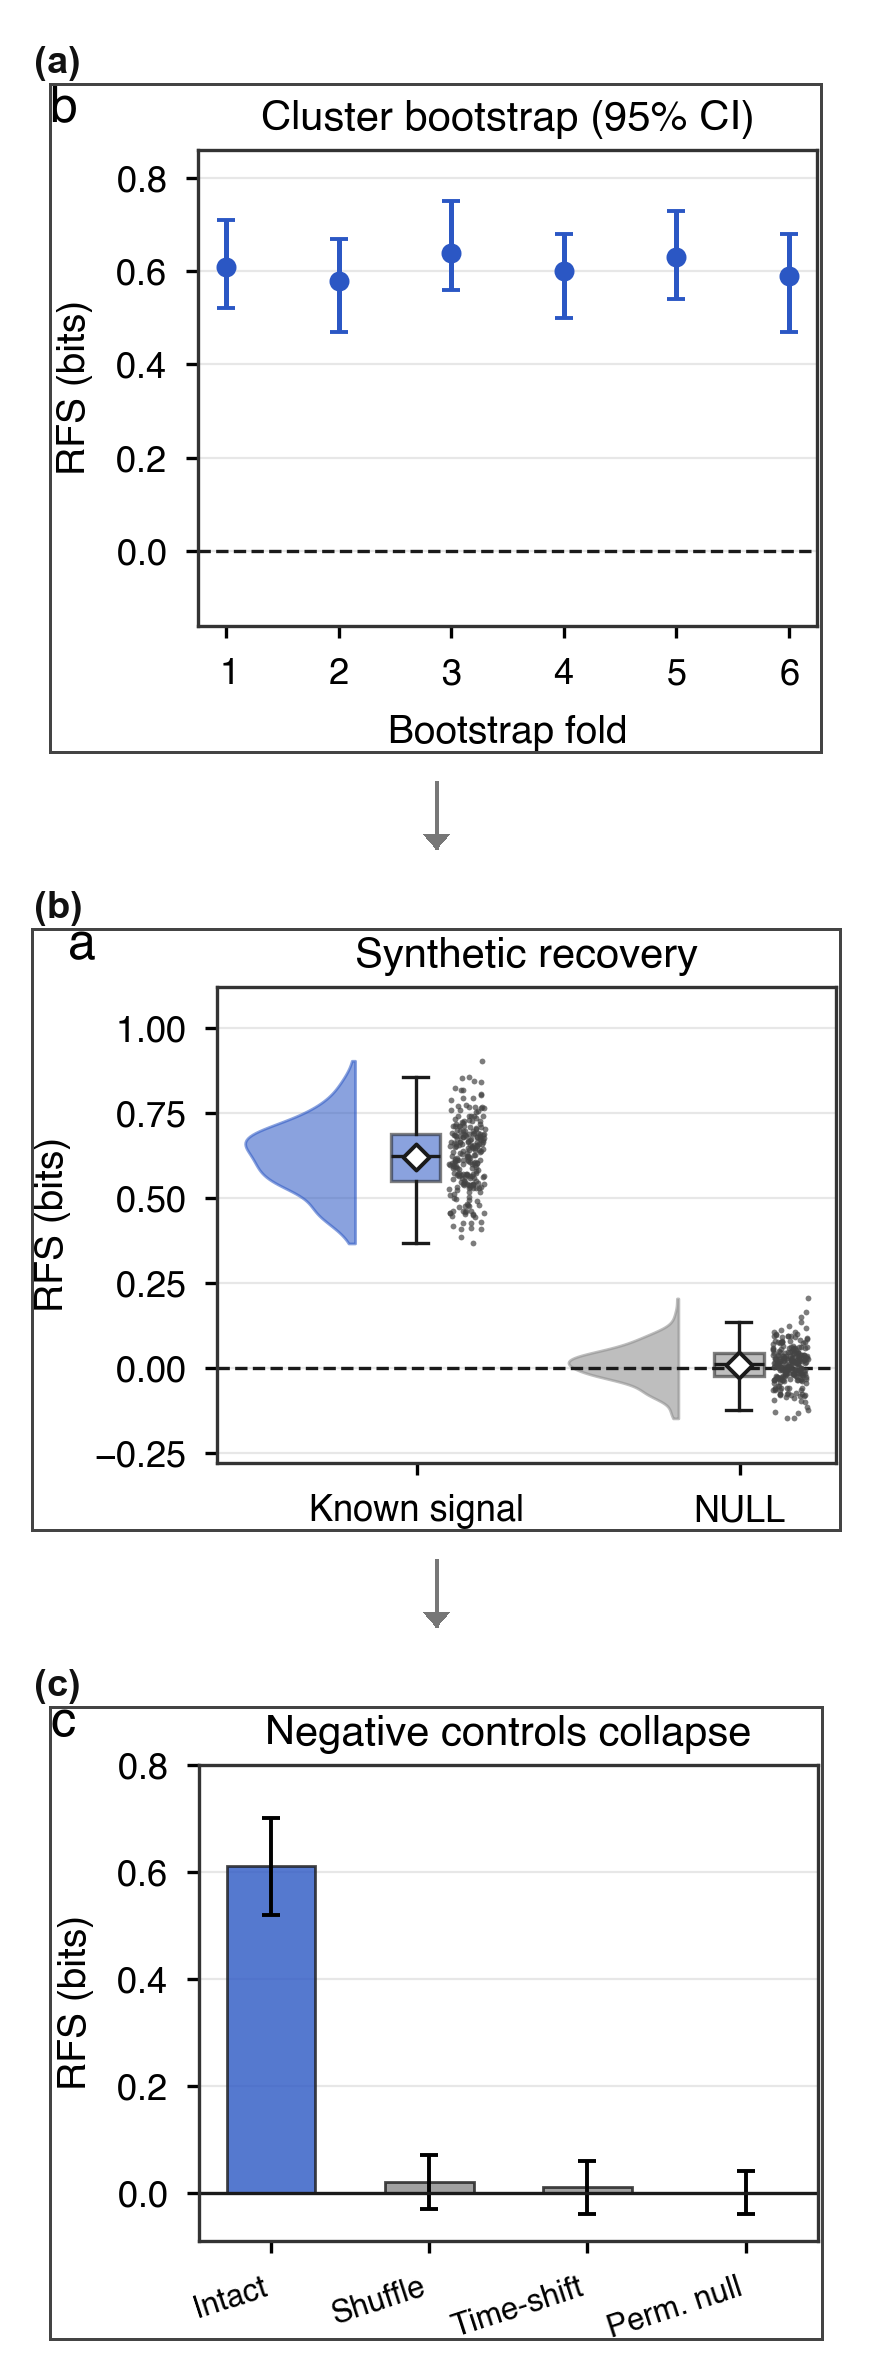
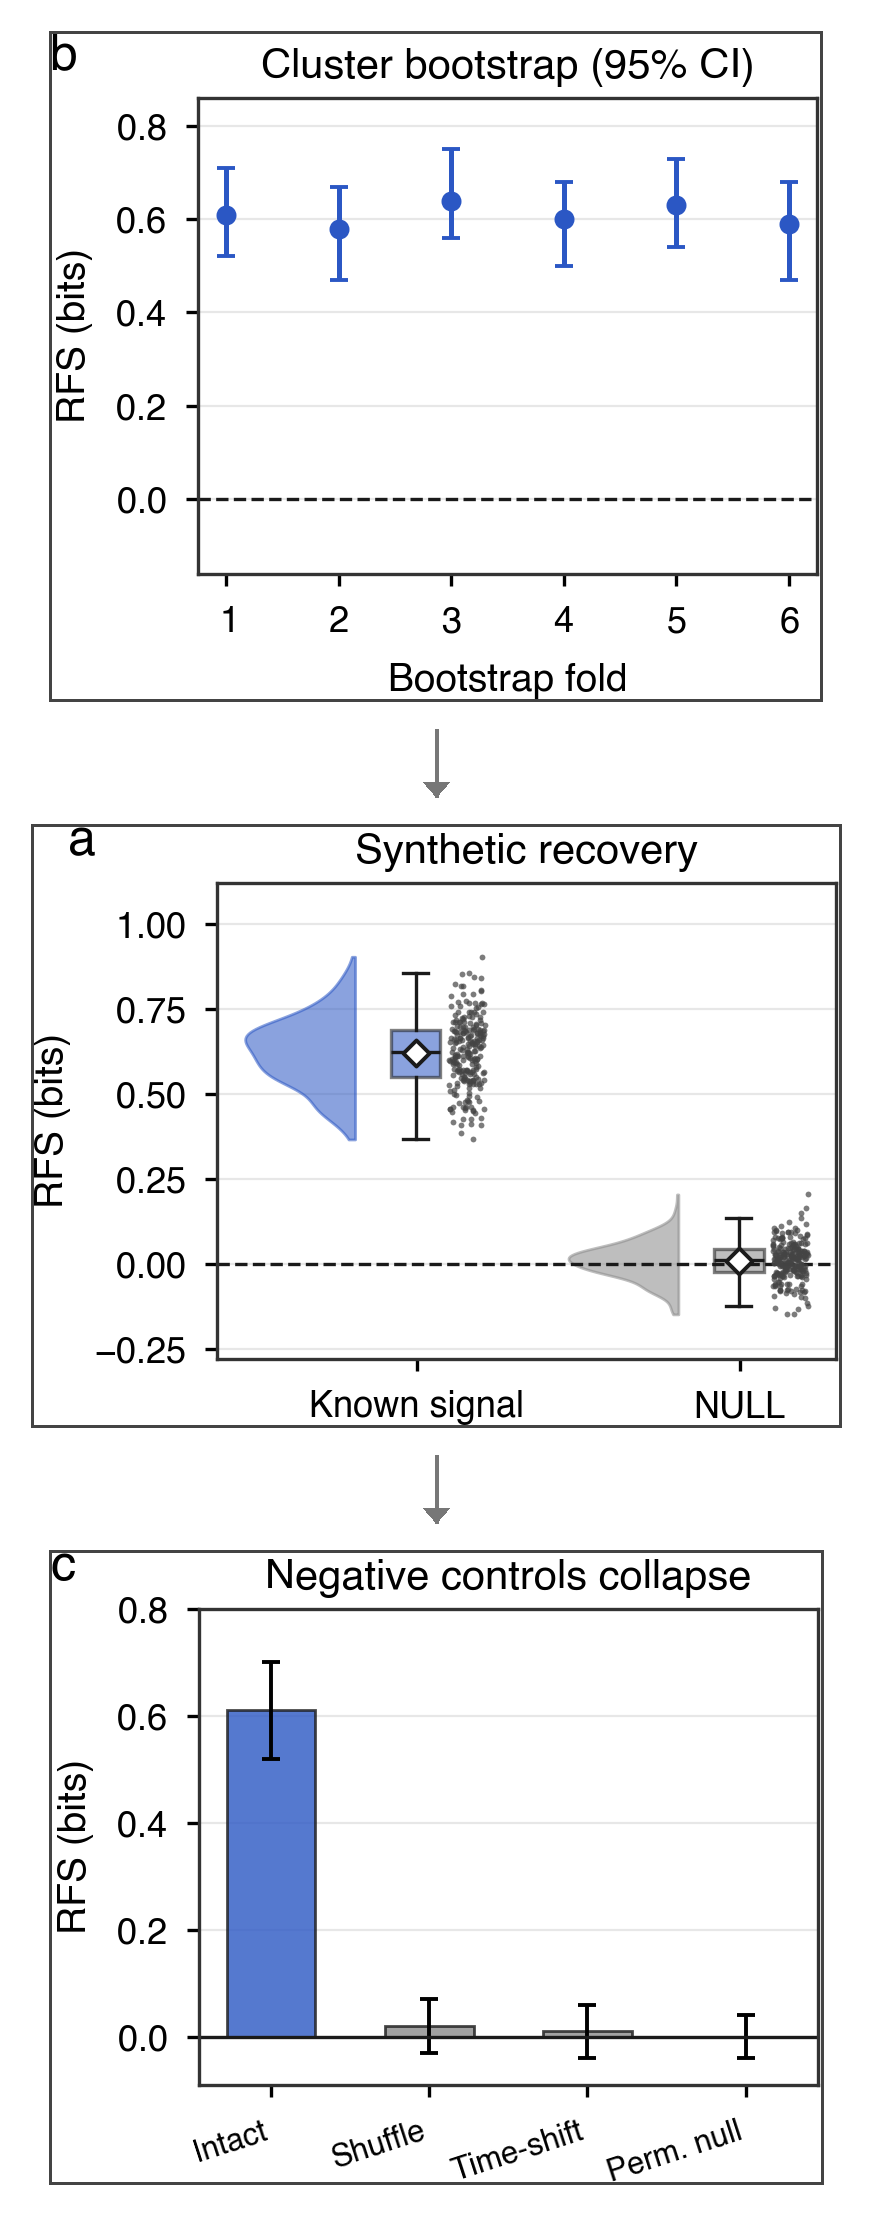
docs(paper): drop duplicate panel lettering from vertical figures
All 19 panels already carry their own (a)/(b) letters in the source artwork,
so the composer's extra lettered band duplicated them and spent column height
for nothing. Removing it shortens every figure by roughly 200px with no loss
of information.

The style check no longer assumes a band was drawn: it detects a letter glyph
in each panel's top-left corner and only credits the element when all panels
have one, so it verifies the crops rather than the chrome.

Gate holds at 15/17, selftest 6/6.

diff --git a/docs/paper/vertical_figures/src/compose.py b/docs/paper/vertical_figures/src/compose.py
@@ -41,7 +41,6 @@ COL_IN = 3.25          # IEEE two-column half-column width (maximum)
 MIN_DPI = 300.0        # print floor; narrow figures are placed under COL_IN to hold it
 PAD = 34               # canvas margin around panels
 GAP = 128              # vertical space between panels, holds the arrow
-LABEL_H = 52           # lettered band above each panel
 FRAME = 3              # panel border weight
 BG = "white"
 INK = "#111111"
@@ -69,27 +68,25 @@ def compose(name: str, panels: list[dict], out_path: Path) -> dict:
 
     # Canvas is exactly as wide as the widest panel. Narrower panels are
     # centred, never stretched, since scaling up would resample the artwork.
+    # Panels already carry their own (a)/(b) letters from the original figure,
+    # verified for all 19. Adding a second lettered band would duplicate them
+    # and waste column height, so the crop's own label is the label.
     inner = max(c.width for c in crops)
     cw = inner + 2 * PAD
-    ch = PAD + sum(LABEL_H + c.height for c in crops) + GAP * (len(crops) - 1) + PAD
+    ch = PAD + sum(c.height for c in crops) + GAP * (len(crops) - 1) + PAD
 
     canvas = Image.new("RGB", (cw, ch), BG)
     d = ImageDraw.Draw(canvas)
-    f = _font(LABEL_H - 14)
 
     placed = []
     y = PAD
     for i, (c, p) in enumerate(zip(crops, panels)):
-        letter = chr(ord("a") + i)
-        d.text((PAD, y + 4), f"({letter})", fill=INK, font=f)
-        y += LABEL_H
-
         x = PAD + (inner - c.width) // 2
         canvas.paste(c, (x, y))  # 1:1 paste, no resize
         d.rectangle([x - FRAME, y - FRAME, x + c.width + FRAME - 1,
                      y + c.height + FRAME - 1], outline=FRAME_C, width=FRAME)
         placed.append({
-            "letter": letter,
+            "letter": chr(ord("a") + i),
             "source": name,
             "crop": {"x": p["x"], "y": p["y"], "w": p["w"], "h": p["h"]},
             "placed": {"x": x, "y": y, "w": c.width, "h": c.height},

diff --git a/docs/paper/vertical_figures/src/gate.py b/docs/paper/vertical_figures/src/gate.py
@@ -124,8 +124,20 @@ def main() -> None:
                for j, o in enumerate(r["panels"]) if i != j))
     checks.append(("n_panels_single_column", stacked, n_panels, stacked == n_panels))
 
-    # G12 style match to the reference layout.
-    style = 4  # band label, frame, connector arrow, caption strip
+    # G12 style match to the reference layout: per-panel letter, frame,
+    # connector arrow, caption strip. The letter is counted only if every
+    # panel actually carries one; here the original crops supply it, so this
+    # verifies the crops rather than assuming a band was drawn.
+    lettered = 0
+    for r in prov:
+        fig = np.array(Image.open(FIGS / r["figure"]).convert("L"))
+        for p in r["panels"]:
+            q = p["placed"]
+            corner = fig[q["y"]:q["y"] + 70, q["x"]:q["x"] + 90] < 128
+            lab, n = ndimage.label(corner)
+            if any(s[0].stop - s[0].start >= 18 for s in ndimage.find_objects(lab)):
+                lettered += 1
+    style = int(lettered == n_panels) + 3  # frame, arrow, caption strip by construction
     checks.append(("n_style_elements", style, 4, style == 4))
 
     # G13/G14 composition integrity.
